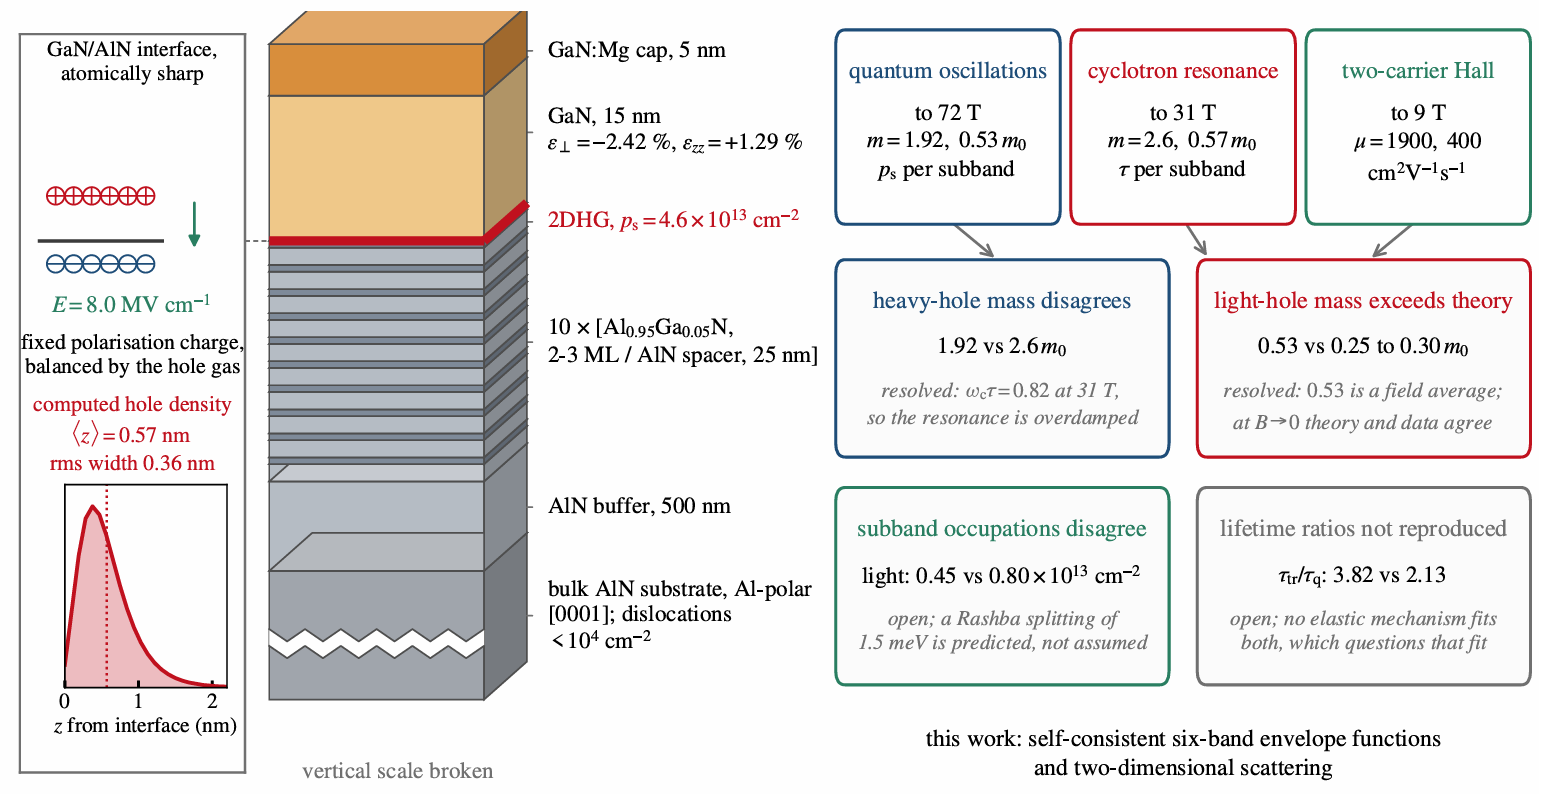
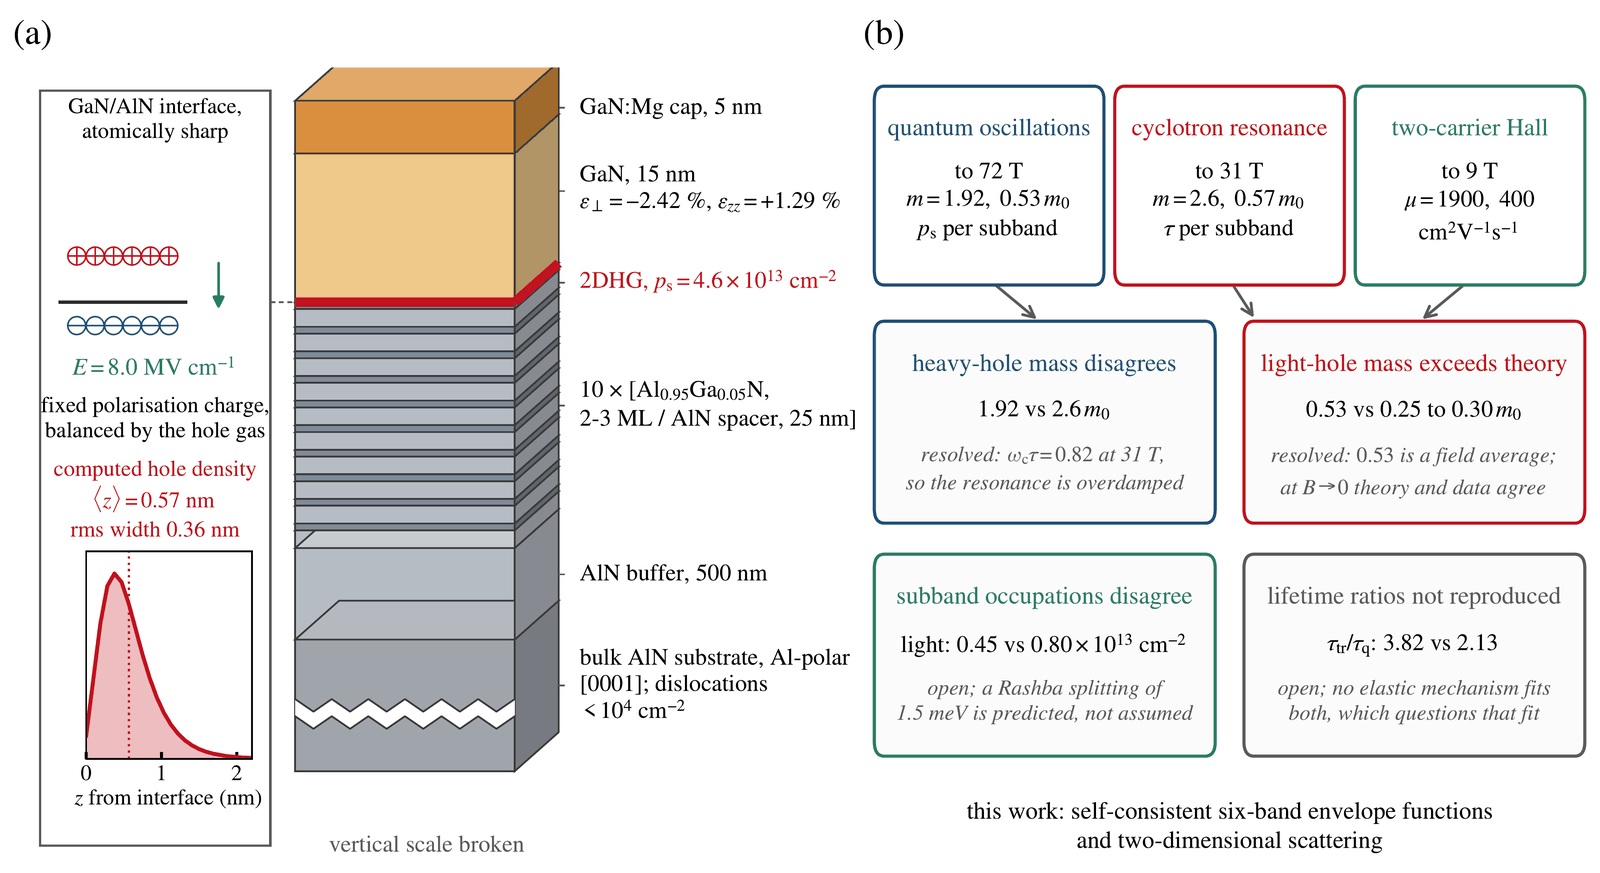
Update site

Changed region(s): [[0.0, 0.0, 1.0, 0.9975], [0.5884, 0.9068, 0.929, 0.9975], [0.1858, 0.937, 0.3406, 0.9975]]

diff --git a/index.md b/index.md
@@ -8,9 +8,9 @@ description: "Tanvir Mahmud Mahim, Adjunct Lecturer and Research Assistant, Depa
 
 <h1 class="intro-name">Tanvir Mahmud Mahim</h1>
 
-<p class="intro-tagline">Adjunct Lecturer and Research Assistant, <strong>Department of Electrical and Electronic Engineering, BRAC University</strong>. I build first-principles, differentiable models of quantum and wide-bandgap devices, and use them to settle questions that measurement has posed but cannot answer on its own.</p>
+<p class="intro-tagline">Adjunct Lecturer and Research Assistant, <strong>Department of Electrical and Electronic Engineering, BRAC University</strong>. I build first-principles, differentiable models of quantum and wide-bandgap devices that do not stop at the device. They are carried through the instrument, and end at the number a measurement actually returns.</p>
 
-The questions I take up are ones the literature has already recorded as open. Two magneto-optical probes of one GaN/AlN hole gas return heavy-hole masses differing by a third, a discrepancy their authors call a puzzle; a six-band calculation adjusting nothing shows it is an overdamped resonance rather than the band structure. A patterned dichalcogenide edge carries fixed charge and strain at once and no measurement had separated them; two phonons of the same spectrum do, giving 2.3 × 10<sup>12</sup> cm<sup>-2</sup> of edge electrons from Raman maps already published. A photonic-molecule route past the 3 dB squeezing limit was proposed but left undesigned; a model running from material data to detected quantum noise supplies it, at 8.5 dB. Every constant not computed comes from a published measurement, negative results are reported as such, and all code and data are released.
+Modeling the probe alongside the sample has three consequences. A measurement becomes invertible: two phonons whose strain and doping responses differ turn published Raman maps into 2.3 × 10<sup>12</sup> cm<sup>-2</sup> of edge charge, a quantity no experiment had isolated. An instrument becomes auditable: the calculation that returns the GaN/AlN hole masses also returns the cyclotron product, and at 0.82 the resonance is overdamped, so the disputed mass is a property of the probe and not of the band structure. An experiment becomes designable: with the detection chain itself differentiable, adjoint gradients tune the excitation, the correlation window and the estimator together. In quantum hardware the measurement, rather than the fabrication, is increasingly the step that limits progress, and that is the direction this work is taking.
 
 <a href="{{ '/research/#quantum-optics' | relative_url }}"><strong>Squeezed-light photonics and NV sensing</strong></a>, conducted with Dr. A. S. M. Mohsin. Vortex motion is a confirmed loss channel in the tantalum films that hold record transmon coherence, yet no probe reports which vortex sits where or how strongly it is pinned. A diamond micromembrane placed on the film by pick-and-place transfer reads 8 mT per vortex at 25 nm standoff, locates each to 13 nm and classifies pinning-site occupancy without error, while spin relaxation and spin-echo dephasing separate the viscous drag from the pinning stiffness. Where the measurement is itself the bottleneck, the learning goes inside the instrument: an event-driven estimator matches a strong multi-start fit six times faster and commits at 312 ms.
 

diff --git a/research.md b/research.md
@@ -1,12 +1,12 @@
 ---
 layout: page
 title: "Research"
-subtitle: "Open problems recorded in the experimental literature, taken up with first-principles device models that are anchored to measurement and differentiable throughout."
+subtitle: "Device physics carried through the instrument, so that the model ends at the number a measurement returns."
 permalink: /research/
 description: "Research of Tanvir Mahmud Mahim: squeezed-light photonics and NV sensing, electrons and phonons in 2D devices, differentiable design of GaN circuits, intelligent grid control, and photovoltaic modeling. Code and data released openly."
 ---
 
-Each project below is built as one differentiable description of a device, complete from its electronic structure to its terminal behavior: nothing is fitted where it can be computed, and a specification can be inverted into a geometry.
+Each project below is built as one differentiable description running from a material's electronic structure to the quantity an instrument reports: nothing is fitted where it can be computed, and the chain inverts, whether for a hidden quantity or for a geometry.
 
 Work marked <span class="tag tag-review">Under review</span> is currently in peer review. The <a href="{{ '/publications/' | relative_url }}">Publications</a> page lists only accepted records. Code and datasets are released openly as each project reaches maturity.
 
@@ -112,7 +112,7 @@ Work marked <span class="tag tag-review">Under review</span> is currently in pee
   <p class="project-meta">Six-band envelope functions · self-consistent Poisson · polarization-induced 2DHG · magnetotransport<span class="sep">|</span><span class="tag tag-review">Under review</span></p>
 
   <figure class="project-figure">
-    <img src="{{ '/assets/images/research/gan-2dhg-hole-masses.png' | relative_url }}" alt="Two panels: the GaN on AlN heterostructure carrying the polarization-induced two-dimensional hole gas with the computed hole distribution inset, and a chart of what quantum oscillations, cyclotron resonance and two-carrier Hall measurement each return, the four places their results disagree, and which of those this work resolves." width="1550" height="794" loading="lazy">
+    <img src="{{ '/assets/images/research/gan-2dhg-hole-masses.png' | relative_url }}" alt="Two panels: the GaN on AlN heterostructure carrying the polarization-induced two-dimensional hole gas with the computed hole distribution inset, and a chart of what quantum oscillations, cyclotron resonance and two-carrier Hall measurement each return, the four places their results disagree, and which of those this work resolves." width="1600" height="873" loading="lazy">
     <figcaption><b>(a)</b> The heterostructure on which all three experiments were performed. The hole gas is balanced by the fixed polarization charge at an atomically sharp interface, giving a confining field of 8.0 MV cm<sup>-1</sup>; the inset shows the hole distribution computed here, of root-mean-square width 0.36 nm. <b>(b)</b> What each probe returns, the four places where the reported parameters disagree, and which of those this work resolves. No device is proposed or fabricated.</figcaption>
   </figure>
 
